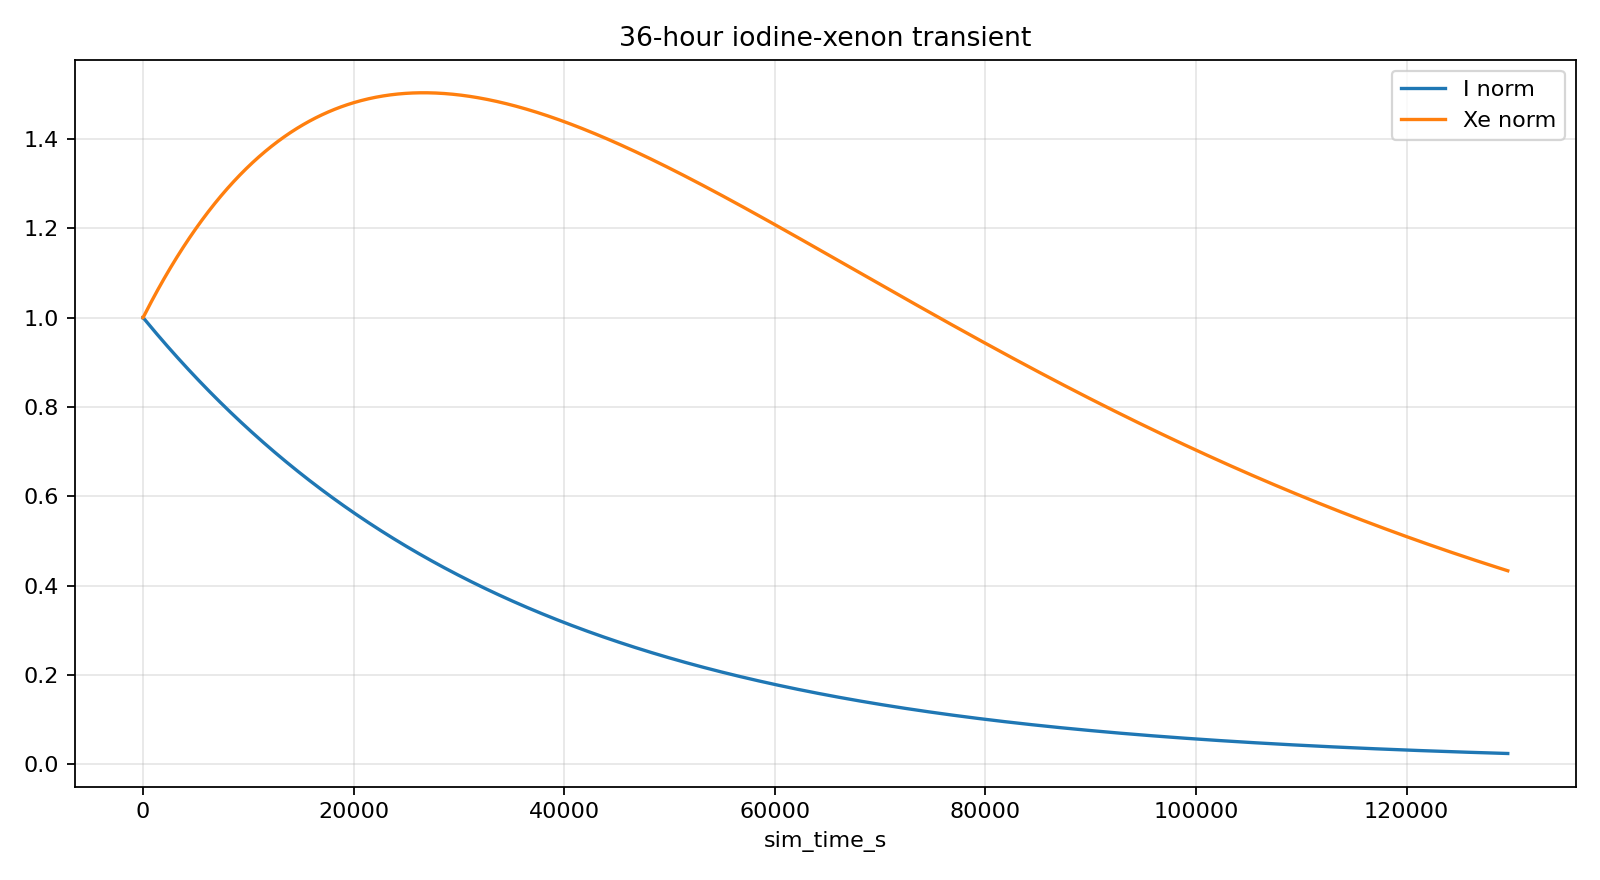
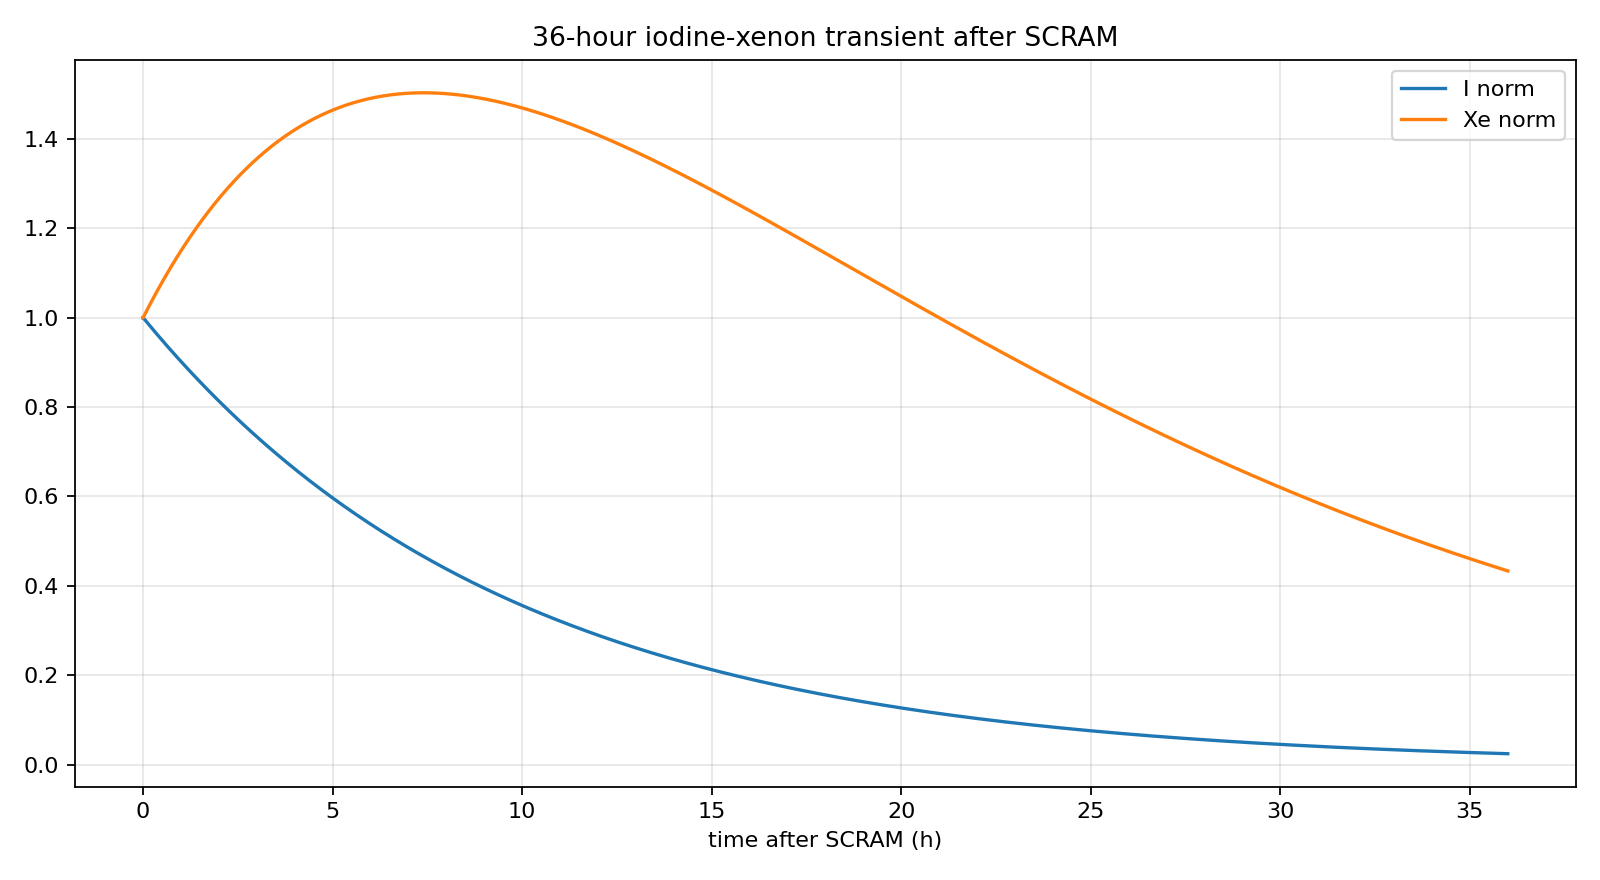
Refresh clean Chapter 7 campaign results

diff --git a/experiments/results/chapter7_pc_20260711/summary.md b/experiments/results/chapter7_pc_20260711/summary.md
@@ -12,12 +12,14 @@ All values below were computed from the raw CSV files in this directory. The PC 
 | steady_power_1_50.csv | 1.5 | 0.0 | 6.98491931e-10 | 0.0 | 0.0 |
 
 
-## Rod transients
+## Rod-transient phase summary
 
-| file | peak_power | time_to_peak_s | min_power | max_fuel_temperature | max_coolant_temperature | final_power |
-|---|---|---|---|---|---|---|
-| rod_withdrawal.csv | 1.435726047 | 29.90000153 | 0.864507854 | 597.5249023 | 298.4734497 | 1.001561522 |
-| rod_insertion.csv | 1.201619983 | 91.40000153 | 0.7088071108 | 545.3863525 | 293.2269897 | 0.9988888502 |
+The disturbance extremum is measured during 20–80 s. The recovery extremum is measured after the rod target is restored at 80 s.
+
+| file | disturbance_extremum | disturbance_power | disturbance_time_s | recovery_extremum | recovery_power | recovery_time_s | final_power |
+|---|---|---|---|---|---|---|---|
+| rod_withdrawal.csv | maximum | 1.435726047 | 29.90000153 | minimum | 0.864507854 | 93.1000061 | 1.001561522 |
+| rod_insertion.csv | minimum | 0.7088071108 | 35.5 | maximum | 1.201619983 | 91.40000153 | 0.9988888502 |
 
 
 ## SCRAM and decay heat
@@ -35,12 +37,14 @@ All values below were computed from the raw CSV files in this directory. The PC 
 
 ## Iodine-xenon transient
 
-| duration_after_scram_h | iodine_max | iodine_max_time_after_scram_s | xenon_max | xenon_max_time_after_scram_s | most_negative_xenon_rho | xenon_return_within_1pct_time_after_scram_s | maximum_critical_rod_position |
+| duration_after_scram_h | iodine_at_xenon_peak | xenon_max | xenon_peak_time_h | maximum_xenon_worth_dollars | xenon_worth_time_h | xenon_return_within_1pct_time_h | maximum_critical_rod_position |
 |---|---|---|---|---|---|---|---|
-| 36.00000216666667 | 1.0 | 0.0 | 1.503221393 | 26600.00195 | -0.01006442774 | 74900.0 | 0.8578808308 |
+| 36.00000216666667 | 0.4660790563 | 1.503221393 | 7.388889430555556 | -1.4377753914285714 | 7.388889430555556 | 20.805555555555557 | 0.8578808308 |
 
 
-## Three-preset comparison
+## სამი რეაქტორული წინასწარი კონფიგურაციის პასუხი ერთნაირ რეაქტიულობის ზემოქმედებაზე
+
+This is a complete preset-behaviour comparison. It includes both the presets’ feedback coefficients and their different active cooling-removal conditions; it is not an isolation of temperature-feedback coefficients.
 
 | file | peak_power | time_to_peak_s | max_fuel_temperature | max_coolant_temperature | final_power |
 |---|---|---|---|---|---|
@@ -61,11 +65,13 @@ All values below were computed from the raw CSV files in this directory. The PC 
 
 ## PC physics-kernel performance
 
-| mode | frames | mean_frame_time_s | median_frame_time_s | std_frame_time_s | p95_frame_time_s | max_frame_time_s | mean_achieved_factor | missed_100ms_deadlines |
+The reported factor is kernel throughput factor: raw physics-kernel work divided by measured kernel wall time. It excludes pacing, GUI rendering, communication, and deliberate waiting. No 100 ms deadlines were missed in 1000 frames per mode, so the PC kernel can sustain the requested 1×, 10×, and 1000× operating modes.
+
+| mode | frames | mean_frame_time_s | median_frame_time_s | std_frame_time_s | p95_frame_time_s | max_frame_time_s | mean_kernel_throughput_factor | missed_100ms_deadlines |
 |---|---|---|---|---|---|---|---|---|
-| REALTIME | 1000 | 1.3379e-05 | 1.32e-05 | 1.3556979445720631e-06 | 1.35e-05 | 4.71e-05 | 7504.41763766245 | 0 |
-| TRAINING | 1000 | 1.33567e-05 | 1.32e-05 | 1.454995574605683e-06 | 1.33e-05 | 4.68e-05 | 75166.86561452401 | 0 |
-| XENON | 1000 | 0.0006679089 | 0.0006596 | 4.467491509593308e-05 | 0.0006999 | 0.0015223 | 150100.6145006602 | 0 |
+| REALTIME | 1000 | 1.3256600000000001e-05 | 1.32e-05 | 4.166653933914478e-07 | 1.33e-05 | 2.02e-05 | 7549.13088871419 | 0 |
+| TRAINING | 1000 | 1.33659e-05 | 1.32e-05 | 9.756634199912943e-07 | 1.35e-05 | 3.24e-05 | 75037.7982408229 | 0 |
+| XENON | 1000 | 0.000678898 | 0.00065945 | 5.518695331159183e-05 | 0.0007567 | 0.0014958 | 147983.3111878954 | 0 |
 
 
 ## Hardware/HLS work still pending
